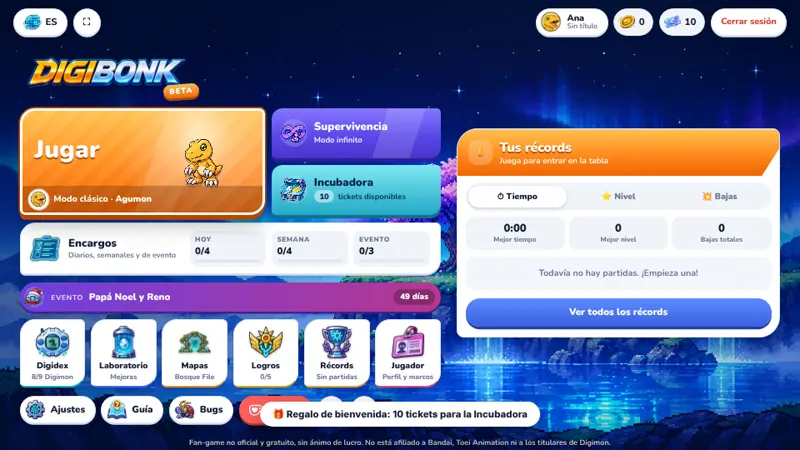
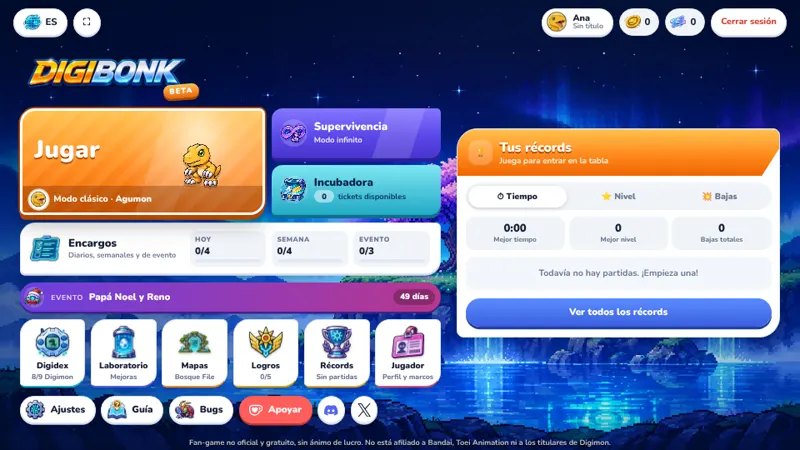
Guía: capturas del menú actual y textos de Incubadora, encargos, EVO y jefe en el portal
Claude-Session: https://claude.ai/code/session_013YiTCuDQUvwnh65dPi275M

Changed region(s): [[0.3125, 0.8711, 0.6875, 0.9644], [0.6562, 0.0, 0.875, 0.0933], [0.2188, 0.3111, 0.2812, 0.4356]]

diff --git a/tutorial/grabar-tutorial.js b/tutorial/grabar-tutorial.js
@@ -63,7 +63,7 @@ async function shot(p, name){
 }
 async function newCtx(b, theme){
   const ctx = await b.newContext({viewport: {width: 960, height: 540}});
-  await ctx.addInitScript(t => { localStorage.setItem('digibonk3d-name', 'Ana'); localStorage.setItem('digibonk3d-quality', 'alta'); localStorage.setItem('digibonk3d-theme', t); }, theme);
+  await ctx.addInitScript(t => { localStorage.setItem('digibonk3d-name', 'Ana'); localStorage.setItem('digibonk3d-quality', 'alta'); localStorage.setItem('digibonk3d-theme', t); localStorage.setItem('digibonk3d-gift', '1'); }, theme);
   return ctx;
 }
 (async () => {
